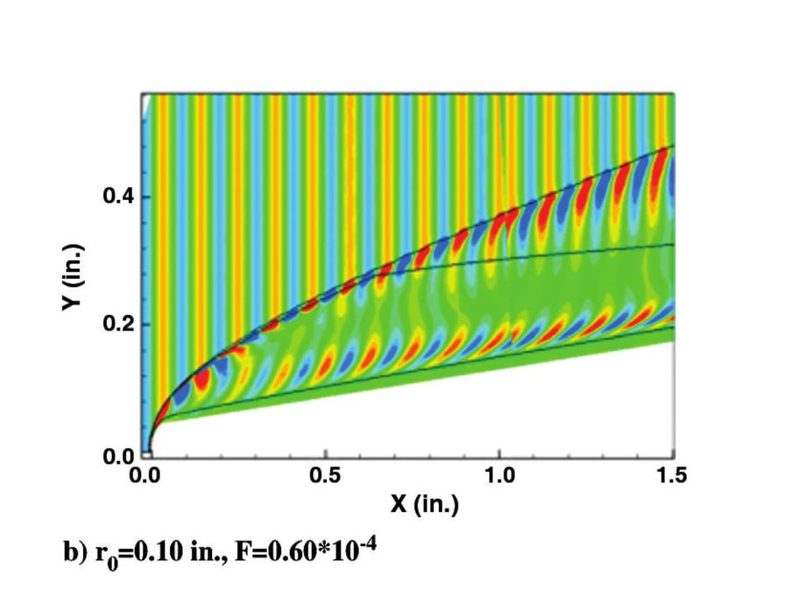
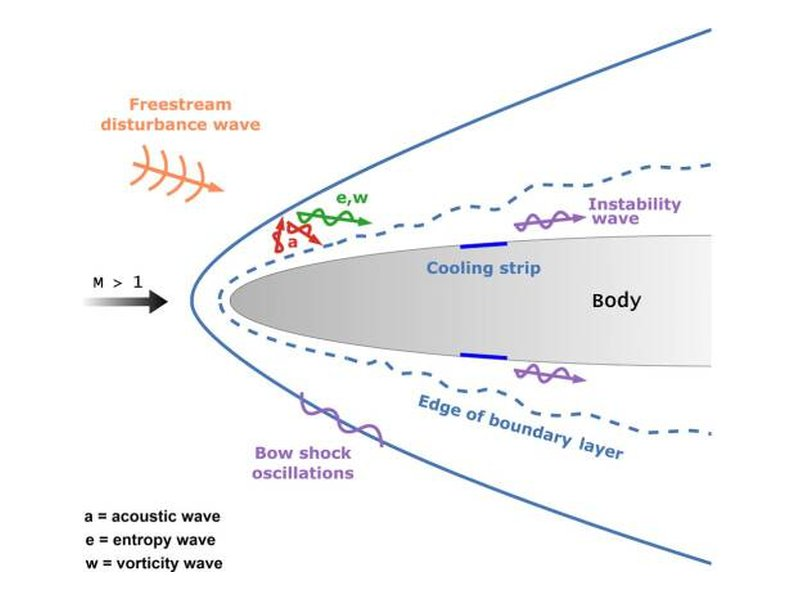
Research: one panel per funded project, with figures from the papers
- Seven project panels (NASA ESI, Navy AIRWISE, FAA ASSURE, NSF NRI,
  IBM Quantum, NASA OK EPSCoR, Khalifa/KAIST sweeping jets), each with
  sponsor, role, years, official award title and number, summary, team,
  and linked papers. NSF NRI and FAA ASSURE are now separate projects.
- Figures: Drones 2025 Fig. 1 (FAA) and Fig. 9(d) (NSF), CC BY 3.0 with
  credit; JSR 2023 receptivity schematic (hypersonic); Fluids 2022
  actuator geometry (sweeping jets); QIP 2022 Burgers shocks (quantum).
- Removed the matplotlib capsule schematic; NASA ESI and AIRWISE show the
  real simulation conditions until paper figures are supplied.
- Project index chips; "Other support" list for smaller grants.
- AGENTS.md: how to add a project panel and credit figures.

Claude-Session: https://claude.ai/code/session_01BxnXVDyGPR6ku7y4dUWxom

diff --git a/index.html b/index.html
@@ -38,6 +38,7 @@
     --line: #e1e4e8;
     --chip: #eef0f3;
     --plate: #ffffff;       /* research figures sit on white in both themes, like a printed figure */
+    --plate-ink: #5a6068; --plate-link: #a24600; --plate-line: #e6e8eb;   /* caption text on the white plate, same in both themes */
     --tunnel-bg: #101215; --tunnel-ink: #e9ecef; --tunnel-muted: #9aa1a9; --tunnel-body: #2a2e34;
     --radius: 12px;
     --serif: "Source Serif 4", Georgia, "Times New Roman", serif;
@@ -153,15 +154,34 @@
   .tunnel .note { flex: 1 1 260px; min-width: 0; }
   @media (max-width: 640px) { .tunnel canvas { height: 240px; } .tunnel input[type=range] { width: 120px; } .tunnel .note { font-size: .74rem; } }
 
-  .areas { display: grid; grid-template-columns: repeat(3, 1fr); gap: 18px; }
-  .area { background: var(--surface); border: 1px solid var(--line); border-radius: var(--radius); overflow: hidden; display: flex; flex-direction: column; }
-  .area figure { margin: 0; aspect-ratio: 4 / 3; max-width: 100%; background: var(--plate); border-bottom: 1px solid var(--line); }
-  .area figure img { width: 100%; height: 100%; object-fit: contain; display: block; }
-  .area .body { padding: 16px 18px 18px; display: flex; flex-direction: column; gap: 8px; flex: 1; }
-  .area p { margin: 0; color: var(--muted); font-size: .94rem; }
-  .area .sponsor { margin-top: auto; padding-top: 6px; }
-  @media (max-width: 900px) { .areas { grid-template-columns: 1fr 1fr; } }
-  @media (max-width: 580px) { .areas { grid-template-columns: 1fr; } }
+  /* Research projects: one panel per funded project; figure and text alternate sides on wide screens */
+  .projects { display: grid; gap: 22px; }
+  .pindex { display: flex; flex-wrap: wrap; gap: 8px; margin: 0 0 22px; padding: 0; list-style: none; }
+  .pindex a { display: inline-flex; gap: 6px; align-items: baseline; padding: 6px 13px; border: 1px solid var(--line); border-radius: 999px; background: var(--surface); color: var(--ink); text-decoration: none; font-size: .88rem; }
+  .pindex a span { font: 500 .72rem var(--mono); color: var(--muted); }
+  .pindex a:hover { border-color: var(--orange); color: var(--orange); }
+  .proj { display: grid; grid-template-columns: minmax(0, 5fr) minmax(0, 7fr); background: var(--surface); border: 1px solid var(--line); border-radius: var(--radius); overflow: hidden; scroll-margin-top: 80px; }
+  .proj:nth-child(even) { grid-template-columns: minmax(0, 7fr) minmax(0, 5fr); }
+  .proj:nth-child(even) .pfig { order: 2; border-right: 0; border-left: 1px solid var(--line); }
+  .pfig { margin: 0; display: flex; flex-direction: column; background: var(--plate); border-right: 1px solid var(--line); min-width: 0; }
+  .pfig img { display: block; width: 100%; aspect-ratio: 4 / 3; object-fit: contain; margin-block: auto; }
+  .pfig figcaption { padding: 8px 14px 10px; font-size: .74rem; line-height: 1.45; color: var(--plate-ink); background: var(--plate); border-top: 1px solid var(--plate-line); }
+  .pfig figcaption a { color: var(--plate-link); }
+  .dataplate { flex: 1; min-height: 100%; display: flex; flex-direction: column; justify-content: center; gap: 10px; padding: 26px 26px; background: var(--tunnel-bg); color: var(--tunnel-ink); font: 400 .86rem/1.5 var(--mono); }
+  .dataplate b { font: 600 1.05rem/1.3 var(--sans); color: var(--tunnel-ink); }
+  .dataplate dl { margin: 0; display: grid; grid-template-columns: max-content 1fr; gap: 6px 14px; }
+  .dataplate dt { color: var(--tunnel-muted); }
+  .dataplate dd { margin: 0; min-width: 0; }
+  .dataplate .rule { height: 2px; width: 48px; background: var(--orange-hi); }
+  .pbody { padding: 22px 24px 22px; display: flex; flex-direction: column; gap: 10px; min-width: 0; }
+  .pbody .label { color: var(--orange); }
+  .pbody h3 { font: 600 1.35rem/1.25 var(--serif); margin: 0; }
+  .pbody .award { margin: 0; font-size: .86rem; color: var(--muted); font-style: italic; }
+  .pbody > p { margin: 0; }
+  .pmeta { margin: 4px 0 0; display: grid; grid-template-columns: 74px 1fr; gap: 6px 14px; font-size: .88rem; border-top: 1px solid var(--line); padding-top: 12px; }
+  .pmeta dt { font: 500 .72rem/1.9 var(--mono); letter-spacing: .06em; text-transform: uppercase; color: var(--muted); }
+  .pmeta dd { margin: 0; min-width: 0; color: var(--muted); }
+  @media (max-width: 820px) { .proj, .proj:nth-child(even) { grid-template-columns: 1fr; } .proj:nth-child(even) .pfig { order: 0; border-left: 0; } .pfig { border-right: 0; border-bottom: 1px solid var(--line); } .dataplate { min-height: 0; } }
 
   .grants { list-style: none; margin: 0; padding: 0; border-top: 1px solid var(--line); }
   .grants li { display: grid; grid-template-columns: 110px 1fr auto; gap: 16px; padding: 12px 0; border-bottom: 1px solid var(--line); align-items: baseline; }
@@ -361,70 +381,116 @@
       </figcaption>
     </figure>
 
-    <!-- Research areas: copy one <article class="area"> block to add an area. Images: assets/research/*.jpg, 800×600. -->
-    <div class="areas">
-      <article class="area">
-        <figure><img src="assets/research/qcfd.jpg" alt="Burgers' equation shock profiles computed with a quantum algorithm compared with classical CFD" loading="lazy" width="800" height="600"></figure>
-        <div class="body">
+    <!-- One panel per funded project, newest first. Copy one <article class="proj"> block to add a project.
+         Figure: assets/research/<name>.jpg on a white 800×600 canvas, with a credit line in <figcaption>.
+         Without a figure, use the <div class="dataplate"> variant. -->
+    <ul class="pindex" aria-label="Projects">
+      <li><a href="#project-esi">Reentry capsules <span>NASA</span></a></li>
+      <li><a href="#project-airwise">Ship airwakes <span>Navy</span></a></li>
+      <li><a href="#project-faa">AAM turbulence loads <span>FAA</span></a></li>
+      <li><a href="#project-nsf">Urban winds <span>NSF</span></a></li>
+      <li><a href="#project-quantum">Quantum CFD <span>IBM</span></a></li>
+      <li><a href="#project-hypersonic">Hypersonic transition <span>NASA EPSCoR</span></a></li>
+      <li><a href="#project-swj">Sweeping jets <span>KU · KAIST</span></a></li>
+    </ul>
+    <div class="projects">
+      <article class="proj" id="project-esi">
+        <figure class="pfig" aria-label="Simulation conditions"><div class="dataplate"><span class="rule"></span><b>Genesis sample return capsule</b><dl><dt>Method</dt><dd>Free-flight (free-to-oscillate) CFD</dd><dt>Mach</dt><dd>M<sub>∞</sub> = 1.44</dd><dt>Initial α</dt><dd>α<sub>0</sub> = 2° and 20°</dd><dt>Outputs</dt><dd>Pitch history θ(t), pitch-damping derivatives, DMD modes</dd></dl></div></figure>
+        <div class="pbody">
+          <span class="label">NASA Early Stage Innovations · PI · 2023–2027</span>
+          <h3>Dynamic stability of reentry capsules</h3>
+          <p class="award">Physics-Guided Multifidelity Learning for Characterization of Blunt-Body Dynamic Stability (80NSSC23K0231, with a paid extension)</p>
+          <p>Blunt reentry capsules can become dynamically unstable in pitch at supersonic and transonic speeds, where small oscillations grow into limit cycles. The lab characterizes this behavior from free-flight CFD of the Genesis capsule, using multifidelity data fusion, Bayesian estimation of pitch-damping derivatives, neural-operator surrogates, dynamic mode decomposition, and equation discovery.</p>
+          <dl class="pmeta">
+            <dt>Team</dt><dd>Ashraf Kassem and Shafi Al-Salman Romeo (Ph.D.); Kaden Thompson, Rachel Thibodeau, and Zachary Lohmar (undergraduate); alumnus Furkan Oz. Collaborator: Omer San.</dd>
+            <dt>Papers</dt><dd><a href="https://doi.org/10.1016/j.ast.2026.112454">Kassem et al., <i>AST</i> 2026</a>, <a href="https://doi.org/10.1038/s41598-026-40068-7">Tiwari et al., <i>Sci. Rep.</i> 2026</a>, <a href="https://doi.org/10.1016/j.ast.2025.111049">Romeo et al., <i>AST</i> 2025</a>, <a href="https://doi.org/10.2514/1.A35998">Oz et al., <i>JSR</i> 2025</a></dd>
+          </dl>
+        </div>
+      </article>
+      <article class="proj" id="project-airwise">
+        <figure class="pfig" aria-label="Simulation conditions"><div class="dataplate"><span class="rule"></span><b>NATO Generic Destroyer (NATO-GD)</b><dl><dt>Method</dt><dd>GPU-accelerated large-eddy simulation</dd><dt>Validation</dt><dd>1:50-scale wind-over-deck velocities (NRC); 1:200-scale surface pressure at several yaw angles</dd><dt>Output</dt><dd>AI surrogate for real-time airwake inference</dd></dl></div></figure>
+        <div class="pbody">
+          <span class="label">U.S. Navy NAWCAD · PI · 2026–2028</span>
+          <h3>Ship airwakes and real-time wake inference</h3>
+          <p class="award">Artificial Intelligence for Real-time Wake Inference in Ship Environments (AIRWISE), N00421-26-1-0004</p>
+          <p>Helicopter and drone operations at sea are limited by the turbulent airwake shed by a ship’s superstructure. AIRWISE runs GPU-accelerated LES of the NATO Generic Destroyer, validated against wind-tunnel measurements, and trains AI surrogates that infer the airwake in real time from sparse sensor data.</p>
+          <dl class="pmeta">
+            <dt>Team</dt><dd>Mashrur Shejan (Ph.D.), Sabbir Hossain (M.Sc.), Gabe Kindt (undergraduate). Collaborator: Ryan Paul.</dd>
+            <dt>Papers</dt><dd>Validation and airwake results presented at NAWCAD quarterly reviews, 2026.</dd>
+          </dl>
+        </div>
+      </article>
+      <article class="proj" id="project-faa">
+        <figure class="pfig"><img src="assets/research/urban-airspace.jpg" alt="Sketch of a downtown environment with high-rise buildings, turbulent wind swirling between them, and a small fixed-wing drone flying a path through target points" loading="lazy" width="800" height="600"><figcaption>A small UAV crossing a downtown wind field: it flies 12 paths, 30° apart in azimuth, through each of nine target points (green). Fig. 1, Krawczyk, Vuppala, Paul &amp; Kara, <a href="https://doi.org/10.3390/drones9050362"><i>Drones</i> 2025</a>, CC BY 3.0.</figcaption></figure>
+        <div class="pbody">
+          <span class="label">FAA ASSURE · Co-PI · 2026–2028</span>
+          <h3>Turbulence loading on AAM VTOL vehicles</h3>
+          <p class="award">A94: Effect of Turbulence on Aircraft Structural Loading of AAM VTOL Vehicles (25-C-UAS-OKSU-01)</p>
+          <p>Advanced air mobility (AAM) VTOL aircraft will take off and land among buildings, inside the most turbulent part of the urban atmospheric boundary layer. This ASSURE project quantifies the structural loads that urban turbulence imposes on these vehicles, building on the lab’s LES and reduced-order urban wind models.</p>
+          <dl class="pmeta">
+            <dt>Team</dt><dd>Mashrur Shejan (Ph.D.), Drew Moguin (undergraduate).</dd>
+            <dt>Papers</dt><dd><a href="https://doi.org/10.3390/aerospace11100830">Krawczyk et al., <i>Aerospace</i> 2024</a>, <a href="https://doi.org/10.1038/s41598-023-50719-8">Vuppala et al., <i>Sci. Rep.</i> 2024</a></dd>
+          </dl>
+        </div>
+      </article>
+      <article class="proj" id="project-nsf">
+        <figure class="pfig"><img src="assets/research/urban-les.jpg" alt="Large-eddy simulation of wind over a city block: translucent iso-volumes of velocity magnitude, 0 to 8 meters per second, wrap the buildings for a 135-degree inflow" loading="lazy" width="800" height="600"><figcaption>LES of the urban wind field: instantaneous iso-volumes of velocity magnitude for a 135° inflow. Fig. 9(d), Krawczyk, Vuppala, Paul &amp; Kara, <a href="https://doi.org/10.3390/drones9050362"><i>Drones</i> 2025</a>, CC BY 3.0.</figcaption></figure>
+        <div class="pbody">
+          <span class="label">NSF National Robotics Initiative · PI · 2020–2025</span>
+          <h3>Wind-aware navigation for drones in urban airspace</h3>
+          <p class="award"><a href="https://www.nsf.gov/awardsearch/showAward?AWD_ID=1925147">NRI: INT: Safe Wind-Aware Navigation for Collaborative Autonomous Aircraft in Low Altitude Airspace</a> (1925147, with an REU supplement)</p>
+          <p>Small drones in cities fly through turbulent wind fields that mesoscale weather models do not resolve. The lab simulated the urban atmospheric boundary layer with LES, compressed it into POD–LSTM and convolutional-autoencoder reduced-order models, and coupled those winds to drone and AAM flight dynamics to support wind-aware navigation.</p>
+          <dl class="pmeta">
+            <dt>Team</dt><dd>Alumnus Rohit Vuppala (Ph.D. 2024); undergraduates Tyler Landua, Zack Osborne, Gavin Sockey, Serge Amangoua, and Romain Bailey. Collaborators: He Bai, Jamey Jacob, Rushikesh Kamalapurkar, Samuel Vance, Ryan Paul.</dd>
+            <dt>Papers</dt><dd><a href="https://doi.org/10.1063/5.0098835">Vuppala &amp; Kara, <i>AIP Adv.</i> 2022</a>, <a href="https://doi.org/10.1038/s41598-023-50719-8">Vuppala et al., <i>Sci. Rep.</i> 2024</a>, <a href="https://doi.org/10.3390/drones9050362">Krawczyk et al., <i>Drones</i> 2025</a>, <a href="https://doi.org/10.3390/drones9110802">Krawczyk et al., <i>Drones</i> 2025</a></dd>
+          </dl>
+        </div>
+      </article>
+      <article class="proj" id="project-quantum">
+        <figure class="pfig"><img src="assets/research/qcfd.jpg" alt="Four snapshots of a Burgers’ equation shock: quantum (Q-CFD) and classical (C-CFD) solutions overlap" loading="lazy" width="800" height="600"><figcaption>Shock propagation in the viscous Burgers’ equation: quantum algorithm (Q-CFD) versus classical CFD (C-CFD). Oz et al., <a href="https://doi.org/10.1007/s11128-021-03391-8"><i>QIP</i> 2022</a>.</figcaption></figure>
+        <div class="pbody">
+          <span class="label">IBM Quantum · PI · 2025</span>
           <h3>Quantum computing for fluid dynamics</h3>
-          <p>We develop quantum algorithms for the partial differential equations of fluid dynamics: a quantum PDE solver for the viscous Burgers' equation, a Chebyshev-point formulation that improves its efficiency, and hybrid classical–quantum lattice Boltzmann methods, executed on IBM quantum hardware.</p>
-          <span class="label sponsor">IBM Quantum</span>
+          <p class="award">Exploring Quantum Computing Paradigms for Fluid Dynamics ($70,000 in IBM Quantum credits)</p>
+          <p>Quantum algorithms may speed up the solution of the partial differential equations behind CFD. The lab developed a quantum PDE solver for the viscous Burgers’ equation and a Chebyshev-point formulation that improves its efficiency, and now builds hybrid classical–quantum lattice Boltzmann methods that run on IBM quantum hardware rather than classical emulators.</p>
+          <dl class="pmeta">
+            <dt>Team</dt><dd>Shafi Al-Salman Romeo (Ph.D.); alumnus Furkan Oz. Outreach: <a href="#outreach">Qiskit Fall Fest</a>.</dd>
+            <dt>Papers</dt><dd><a href="https://doi.org/10.1007/s11128-021-03391-8">Oz et al., <i>Quantum Inf. Process.</i> 2022</a>, <a href="https://doi.org/10.1038/s41598-023-34966-3">Oz, San &amp; Kara, <i>Sci. Rep.</i> 2023</a></dd>
+          </dl>
         </div>
       </article>
-      <article class="area">
-        <figure><img src="assets/research/blunt-body.jpg" alt="Schematic of a blunt-body entry capsule pitching at angle theta in a free stream, with a pitch oscillation that grows into a limit cycle" loading="lazy" width="800" height="600"></figure>
-        <div class="body">
-          <h3>Entry-capsule dynamic stability</h3>
-          <p>Free-flight CFD, multifidelity data fusion, Bayesian estimation of pitch-damping derivatives, neural-operator surrogates, and equation discovery characterize the nonlinear pitch dynamics and limit-cycle behavior of blunt-body entry vehicles such as the Genesis capsule.</p>
-          <span class="label sponsor">NASA Early Stage Innovations</span>
-        </div>
-      </article>
-      <article class="area">
-        <figure><img src="assets/research/urban-wind.jpg" alt="Large eddy simulation of wind velocity around Boone Pickens Stadium on the OSU campus" loading="lazy" width="800" height="600"></figure>
-        <div class="body">
-          <h3>Urban winds for drones and air mobility</h3>
-          <p>LES of the urban atmospheric boundary layer trains reduced-order wind models (POD–LSTM and convolutional autoencoders) that couple to drone and advanced air mobility flight dynamics. New FAA work quantifies turbulence-induced structural loads on AAM VTOL vehicles.</p>
-          <span class="label sponsor">NSF NRI 1925147 · FAA ASSURE</span>
-        </div>
-      </article>
-      <article class="area">
-        <figure><img src="assets/research/hypersonic.jpg" alt="Disturbance contours in a hypersonic boundary layer over a blunt cone with 0.10-inch nose radius" loading="lazy" width="800" height="600"></figure>
-        <div class="body">
+      <article class="proj" id="project-hypersonic">
+        <figure class="pfig"><img src="assets/research/hypersonic.jpg" alt="Schematic of hypersonic receptivity: free-stream disturbance waves cross the bow shock, enter the boundary layer of a blunt body, and grow as instability waves over a cooling strip" loading="lazy" width="800" height="600"><figcaption>Receptivity of a hypersonic boundary layer over a blunt body with a local cooling strip. Oz et al., <a href="https://doi.org/10.2514/1.A35404"><i>JSR</i> 2023</a>.</figcaption></figure>
+        <div class="pbody">
+          <span class="label">NASA Oklahoma EPSCoR · PI · 2019, 2022–2023</span>
           <h3>Hypersonic boundary-layer transition</h3>
-          <p>Direct numerical simulation of receptivity to free-stream acoustic disturbances and second-mode (Mack-mode) instability over blunt cones at Mach 6, and transition control with localized wall cooling and acoustic metasurfaces.</p>
-          <span class="label sponsor">NASA Oklahoma EPSCoR</span>
+          <p class="award">Direct Numerical Simulation of Broadband Acoustic Metasurfaces to Stabilize Acoustic Modes in Hypersonic Boundary Layer (Research Initiation Grant); Hypersonic Boundary-Layer Receptivity to Solid Particulates</p>
+          <p>Where the boundary layer turns turbulent sets the heating and drag on a hypersonic vehicle. DNS of Mach 6 flow over a blunt cone tracks how free-stream acoustic disturbances enter the boundary layer and grow as second-mode (Mack-mode) waves, and tests two passive controls: localized wall cooling and acoustic metasurfaces.</p>
+          <dl class="pmeta">
+            <dt>Team</dt><dd>Alumnus Furkan Oz (Ph.D. 2024); undergraduates Thomas Goebel, Jared Greif, Evan Evans, and Zackary Mitchell. <a href="https://github.com/frkanz/hypersonic_flow_over_cone">Code on GitHub</a>.</dd>
+            <dt>Papers</dt><dd><a href="https://doi.org/10.2514/1.A35404">Oz et al., <i>JSR</i> 2023</a>, <a href="https://doi.org/10.1038/s41598-024-66867-4">Oz &amp; Kara, <i>Sci. Rep.</i> 2024</a>, <a href="https://doi.org/10.2514/1.J050032">Kara et al., <i>AIAA J.</i> 2011</a></dd>
+          </dl>
         </div>
       </article>
-      <article class="area">
-        <figure><img src="assets/research/swj.jpg" alt="Six panels of URANS streamlines over the NASA wall-mounted hump: the separation bubble shrinks as sweeping-jet mass flow increases" loading="lazy" width="800" height="600"></figure>
-        <div class="body">
-          <h3>Flow-separation control</h3>
-          <p>Sweeping jet actuators are fluidic oscillators with no moving parts. We study how internal geometry and mass flow rate set the oscillation frequency, how the sweeping jet suppresses separation, and how to model the actuator with DMD-based and causal state-space reduced-order models.</p>
-          <span class="label sponsor">Active flow control</span>
-        </div>
-      </article>
-      <article class="area">
-        <figure><img src="assets/research/rotor.jpg" alt="Vortex wake of a Sikorsky S-76 rotor in hover from a high-order simulation" loading="lazy" width="800" height="600"></figure>
-        <div class="body">
-          <h3>Ship airwakes and rotorcraft</h3>
-          <p>GPU-accelerated LES of the NATO Generic Destroyer airwake, validated against 1:50-scale wind-over-deck measurements, trains AI surrogates for real-time wake inference during shipboard flight operations. Earlier work: high-order discontinuous Galerkin off-body simulations of S-76 rotor hover.</p>
-          <span class="label sponsor">U.S. Navy NAWCAD · AIRWISE</span>
+      <article class="proj" id="project-swj">
+        <figure class="pfig"><img src="assets/research/swj.jpg" alt="Sweeping jet actuator geometry: inlet, mixing chamber, upper and lower feedback channels, and four exit-nozzle variants" loading="lazy" width="800" height="600"><figcaption>Sweeping jet actuator geometry and the exit-nozzle variants studied. Alam &amp; Kara, <a href="https://doi.org/10.3390/fluids7020069"><i>Fluids</i> 2022</a>.</figcaption></figure>
+        <div class="pbody">
+          <span class="label">Khalifa University and KAIST · PI and Co-PI · 2016–</span>
+          <h3>Flow-separation control with sweeping jet actuators</h3>
+          <p class="award">Sweeping Jet Actuator: An Innovative Approach for Separated Flow Control (Khalifa University Internal Research Fund); Design of Fluidic Oscillators for Active Flow Control (Khalifa University–KAIST Seed Project)</p>
+          <p>Sweeping jet actuators are fluidic oscillators with no moving parts: feedback channels make the exit jet sweep side to side. The lab studies how internal geometry and mass flow rate set the oscillation frequency, how the sweeping jet suppresses separation, and how to model the actuator with DMD-based and causal state-space reduced-order models.</p>
+          <dl class="pmeta">
+            <dt>Team</dt><dd>Shafi Al-Salman Romeo (Ph.D.); alumni Bartosz Jurewicz Slupski (Ph.D.) and Mobashera Alam (M.Sc.); undergraduates Isaiah Richmond, Kaitlyn Matic, and Trevor Marshall.</dd>
+            <dt>Papers</dt><dd><a href="https://doi.org/10.3390/math14101694">Romeo &amp; Kara, <i>Mathematics</i> 2026</a>, <a href="https://doi.org/10.3390/aerospace13020194">Romeo et al., <i>Aerospace</i> 2026</a>, <a href="https://doi.org/10.3390/fluids7020069">Alam &amp; Kara, <i>Fluids</i> 2022</a>, <a href="https://doi.org/10.2514/1.J056715">Kara et al., <i>AIAA J.</i> 2018</a></dd>
+          </dl>
         </div>
       </article>
     </div>
 
-    <h3 class="sub">Funded projects</h3>
-    <!-- From the CV funding list. Newest first. -->
+    <h3 class="sub">Other support</h3>
     <ul class="grants">
-      <li><span class="who">Co-PI</span><span>A94: Effect of Turbulence on Aircraft Structural Loading of AAM VTOL Vehicles. FAA ASSURE.</span><span class="yrs">2026–2028</span></li>
-      <li><span class="who">PI</span><span>Artificial Intelligence for Real-time Wake Inference in Ship Environments (AIRWISE). U.S. Navy NAWCAD, N00421-26-1-0004.</span><span class="yrs">2026–2028</span></li>
-      <li><span class="who">PI</span><span>Physics-Guided Multifidelity Learning for Characterization of Blunt-Body Dynamic Stability. NASA Early Stage Innovations (ESI22), 80NSSC23K0231, with a paid extension.</span><span class="yrs">2023–2027</span></li>
-      <li><span class="who">PI</span><span>Exploring Quantum Computing Paradigms for Fluid Dynamics. IBM Quantum.</span><span class="yrs">2025</span></li>
       <li><span class="who">PI</span><span>Classical Aerodynamics Meet with Modern Engineering Simulation Tools. ANSYS curriculum development.</span><span class="yrs">2024–2025</span></li>
-      <li><span class="who">PI</span><span>Direct Numerical Simulation of Broadband Acoustic Metasurfaces to Stabilize Acoustic Modes in Hypersonic Boundary Layer. NASA Oklahoma EPSCoR Research Initiation Grant.</span><span class="yrs">2022–2023</span></li>
       <li><span class="who">Co-PI</span><span>Next Generation Smart Heatsinks. OCAST AR20-020.</span><span class="yrs">2021–2022</span></li>
-      <li><span class="who">PI</span><span><a href="https://www.nsf.gov/awardsearch/showAward?AWD_ID=1925147">NRI: INT: Safe Wind-Aware Navigation for Collaborative Autonomous Aircraft in Low Altitude Airspace</a>. NSF 1925147, with an REU supplement.</span><span class="yrs">2020–2025</span></li>
-      <li><span class="who">PI</span><span>Hypersonic Boundary-Layer Receptivity to Solid Particulates. NASA Oklahoma EPSCoR.</span><span class="yrs">2019</span></li>
     </ul>
     <p class="key">Computing allocations: NSF ACCESS (PHY260216, PHY260139, MTH220018), NASA High-End Computing, XSEDE, and IBM Quantum. Member institution, University Consortium for Applied Hypersonics (UCAH), since 2024.</p>
   </div>

diff --git a/AGENTS.md b/AGENTS.md
@@ -43,11 +43,15 @@ Instructions for people and AI agents (Claude Code, Codex) editing this reposito
 - **Team member:** copy an `<article class="person">` block. Photo: `assets/team/<first-last>.jpg`, square 200×200 JPEG.
   Use only photos the student provided. High school researchers use initials (`<span class="ini">`) instead of photos.
 - **Graduate → alumni:** delete the person's card and add an `<li>` under Alumni with their current position.
-- **Research area:** copy an `<article class="area">`; image `assets/research/<name>.jpg`, 800×600 JPEG (< 100 KB).
-  Put the whole figure on a white 800×600 canvas (letterbox, don't crop): axis labels and panel captions must stay visible.
-  `blunt-body.jpg` is a schematic drawn with matplotlib, not data; replace it with a real result figure when one is public.
+- **Research projects:** one `<article class="proj">` panel per funded project in `.projects`, newest first, plus a link
+  in the `.pindex` list above it. Each panel: sponsor · role · years (label), a plain-language title (h3), the official
+  award title and number (`.award`), a 2–3 sentence summary, then Team and Papers. Figure: `assets/research/<name>.jpg`,
+  the whole figure on a white 800×600 canvas (letterbox, don't crop away axes or colorbars), with a credit line in
+  `<figcaption>` (authors, venue + DOI link, and license for open-access figures). A project with no public figure yet
+  uses the `<div class="dataplate">` variant listing real simulation conditions; replace it when a figure is available.
+  Smaller grants (curriculum, state seed funds) go in the "Other support" list below the panels.
 - **Publications list** shows the 10 newest by default; "Show all" reveals the rest. Keep it to about 25 selected papers.
-- **Grant:** add an `<li>` at the top of `.grants` (role, title + sponsor + award number, years). Only funded awards;
+- **Other support:** add an `<li>` at the top of `.grants` (role, title + sponsor, years). Only funded awards;
   memberships and computing allocations go in the note under the list.
 - **Honors** (in `#outreach`) and **Professional service** are separate lists; an elected member grade is an honor, not service.
 - **Old addresses:** `netlify.toml` redirects the old Hugo paths (`/publication/*`, `/author/*`, …) to page sections.
